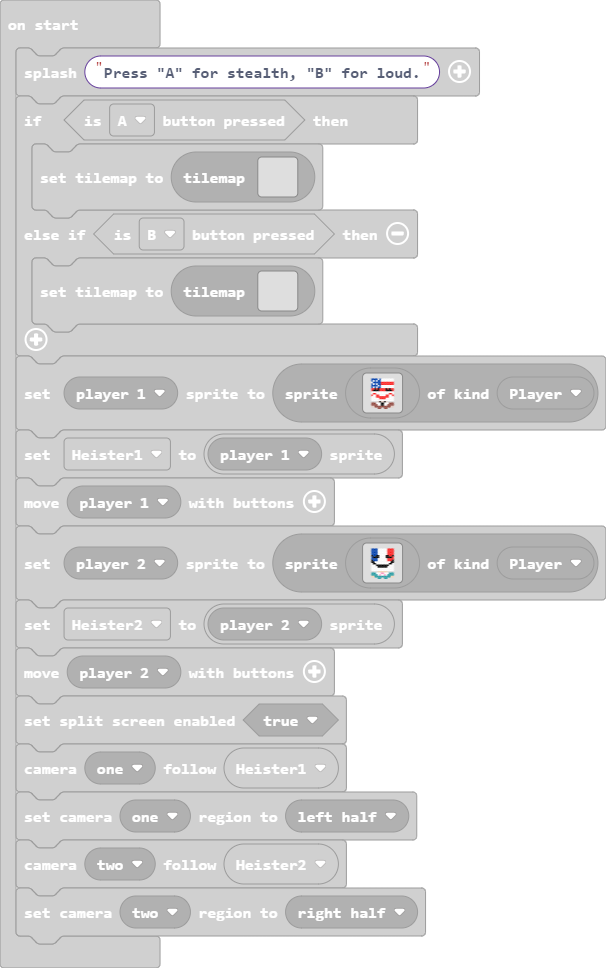
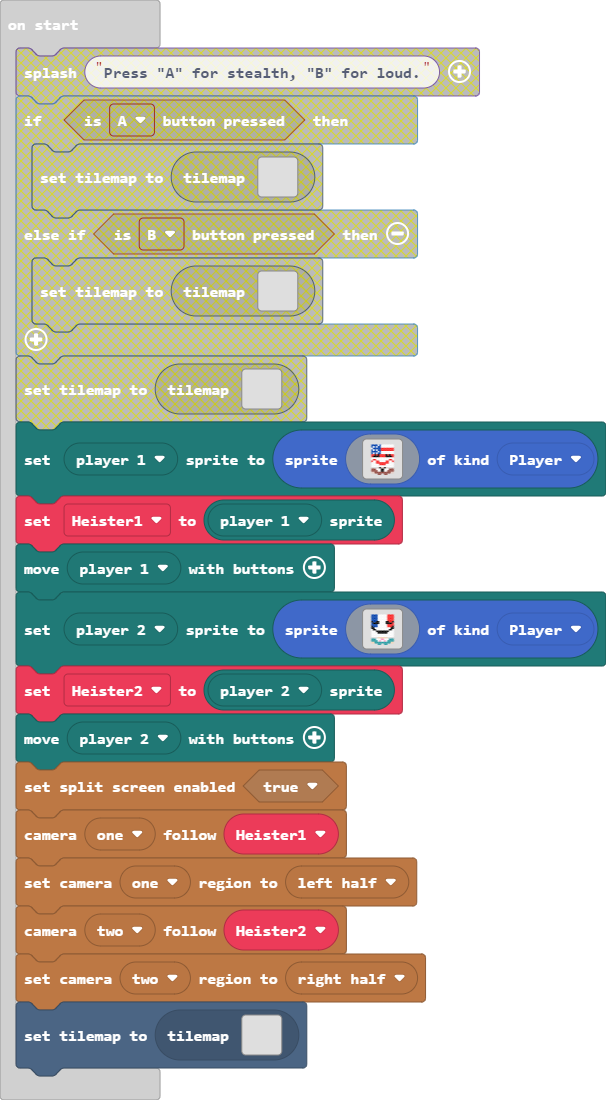
Update main.blocks, main.ts, tilemap.g.jres, tilemap.g.ts

diff --git a/tilemap.g.ts b/tilemap.g.ts
@@ -43,6 +43,101 @@ namespace myTiles {
 . . . . . . . . . . . . . . . . 
 . . . . . . . . . . . . . . . . 
 `, [], -Infinity);
+            case "level3":
+            case "level3":return tiles.createTilemap(hex`1000100000000000000000000000000000000000000000000000000000000000000000000000000000000000000000000000000000000000000000000000000000000000000000000000000000000000000000000000000000000000000000000000000000000000000000000000000000000000000000000000000000000000000000000000000000000000000000000000000000000000000000000000000000000000000000000000000000000000000000000000000000000000000000000000000000000000000000000000000000000000000000000000000000000000000000000000000000000000000000000000000000000000000000000000000000000000`, img`
+. . . . . . . . . . . . . . . . 
+. . . . . . . . . . . . . . . . 
+. . . . . . . . . . . . . . . . 
+. . . . . . . . . . . . . . . . 
+. . . . . . . . . . . . . . . . 
+. . . . . . . . . . . . . . . . 
+. . . . . . . . . . . . . . . . 
+. . . . . . . . . . . . . . . . 
+. . . . . . . . . . . . . . . . 
+. . . . . . . . . . . . . . . . 
+. . . . . . . . . . . . . . . . 
+. . . . . . . . . . . . . . . . 
+. . . . . . . . . . . . . . . . 
+. . . . . . . . . . . . . . . . 
+. . . . . . . . . . . . . . . . 
+. . . . . . . . . . . . . . . . 
+`, [myTiles.transparency16], TileScale.Sixteen);
+            case "level4":
+            case "level4":return tiles.createTilemap(hex`1000100000000000000000000000000000000000000000000000000000000000000000000000000000000000000000000000000000000000000000000000000000000000000000000000000000000000000000000000000000000000000000000000000000000000000000000000000000000000000000000000000000000000000000000000000000000000000000000000000000000000000000000000000000000000000000000000000000000000000000000000000000000000000000000000000000000000000000000000000000000000000000000000000000000000000000000000000000000000000000000000000000000000000000000000000000000000`, img`
+. . . . . . . . . . . . . . . . 
+. . . . . . . . . . . . . . . . 
+. . . . . . . . . . . . . . . . 
+. . . . . . . . . . . . . . . . 
+. . . . . . . . . . . . . . . . 
+. . . . . . . . . . . . . . . . 
+. . . . . . . . . . . . . . . . 
+. . . . . . . . . . . . . . . . 
+. . . . . . . . . . . . . . . . 
+. . . . . . . . . . . . . . . . 
+. . . . . . . . . . . . . . . . 
+. . . . . . . . . . . . . . . . 
+. . . . . . . . . . . . . . . . 
+. . . . . . . . . . . . . . . . 
+. . . . . . . . . . . . . . . . 
+. . . . . . . . . . . . . . . . 
+`, [myTiles.transparency16], TileScale.Sixteen);
+            case "level5":
+            case "level5":return tiles.createTilemap(hex`1000100000000000000000000000000000000000000000000000000000000000000000000000000000000000000000000000000000000000000000000000000000000000000000000000000000000000000000000000000000000000000000000000000000000000000000000000000000000000000000000000000000000000000000000000000000000000000000000000000000000000000000000000000000000000000000000000000000000000000000000000000000000000000000000000000000000000000000000000000000000000000000000000000000000000000000000000000000000000000000000000000000000000000000000000000000000000`, img`
+. . . . . . . . . . . . . . . . 
+. . . . . . . . . . . . . . . . 
+. . . . . . . . . . . . . . . . 
+. . . . . . . . . . . . . . . . 
+. . . . . . . . . . . . . . . . 
+. . . . . . . . . . . . . . . . 
+. . . . . . . . . . . . . . . . 
+. . . . . . . . . . . . . . . . 
+. . . . . . . . . . . . . . . . 
+. . . . . . . . . . . . . . . . 
+. . . . . . . . . . . . . . . . 
+. . . . . . . . . . . . . . . . 
+. . . . . . . . . . . . . . . . 
+. . . . . . . . . . . . . . . . 
+. . . . . . . . . . . . . . . . 
+. . . . . . . . . . . . . . . . 
+`, [myTiles.transparency16], TileScale.Sixteen);
+            case "level6":
+            case "level6":return tiles.createTilemap(hex`1000100000000000000000000000000000000000000000000000000000000000000000000000000000000000000000000000000000000000000000000000000000000000000000000000000000000000000000000000000000000000000000000000000000000000000000000000000000000000000000000000000000000000000000000000000000000000000000000000000000000000000000000000000000000000000000000000000000000000000000000000000000000000000000000000000000000000000000000000000000000000000000000000000000000000000000000000000000000000000000000000000000000000000000000000000000000000`, img`
+. . . . . . . . . . . . . . . . 
+. . . . . . . . . . . . . . . . 
+. . . . . . . . . . . . . . . . 
+. . . . . . . . . . . . . . . . 
+. . . . . . . . . . . . . . . . 
+. . . . . . . . . . . . . . . . 
+. . . . . . . . . . . . . . . . 
+. . . . . . . . . . . . . . . . 
+. . . . . . . . . . . . . . . . 
+. . . . . . . . . . . . . . . . 
+. . . . . . . . . . . . . . . . 
+. . . . . . . . . . . . . . . . 
+. . . . . . . . . . . . . . . . 
+. . . . . . . . . . . . . . . . 
+. . . . . . . . . . . . . . . . 
+. . . . . . . . . . . . . . . . 
+`, [myTiles.transparency16], TileScale.Sixteen);
+            case "level7":
+            case "level7":return tiles.createTilemap(hex`1000100000000000000000000000000000000000000000000000000000000000000000000000000000000000000000000000000000000000000000000000000000000000000000000000000000000000000000000000000000000000000000000000000000000000000000000000000000000000000000000000000000000000000000000000000000000000000000000000000000000000000000000000000000000000000000000000000000000000000000000000000000000000000000000000000000000000000000000000000000000000000000000000000000000000000000000000000000000000000000000000000000000000000000000000000000000000`, img`
+. . . . . . . . . . . . . . . . 
+. . . . . . . . . . . . . . . . 
+. . . . . . . . . . . . . . . . 
+. . . . . . . . . . . . . . . . 
+. . . . . . . . . . . . . . . . 
+. . . . . . . . . . . . . . . . 
+. . . . . . . . . . . . . . . . 
+. . . . . . . . . . . . . . . . 
+. . . . . . . . . . . . . . . . 
+. . . . . . . . . . . . . . . . 
+. . . . . . . . . . . . . . . . 
+. . . . . . . . . . . . . . . . 
+. . . . . . . . . . . . . . . . 
+. . . . . . . . . . . . . . . . 
+. . . . . . . . . . . . . . . . 
+. . . . . . . . . . . . . . . . 
+`, [myTiles.transparency16], TileScale.Sixteen);
         }
         return null;
     })

diff --git a/main.ts b/main.ts
@@ -7,12 +7,7 @@ function SpawnLoot (LootType: string, LootValue: number, OnLoot: boolean) {
 let PLayer2Health: StatusBarSprite = null
 let Player1Health: StatusBarSprite = null
 let Loot: Sprite[] = []
-game.splash("Press \"A\" for stealth, \"B\" for loud.")
-if (controller.A.isPressed()) {
-    tiles.setCurrentTilemap(tilemap`level1`)
-} else if (controller.B.isPressed()) {
-    tiles.setCurrentTilemap(tilemap`level2`)
-}
+tiles.setCurrentTilemap(tilemap`level1`)
 mp.setPlayerSprite(mp.playerSelector(mp.PlayerNumber.One), sprites.create(assets.image`Austin`, SpriteKind.Player))
 let Heister1 = mp.getPlayerSprite(mp.playerSelector(mp.PlayerNumber.One))
 mp.moveWithButtons(mp.playerSelector(mp.PlayerNumber.One))
